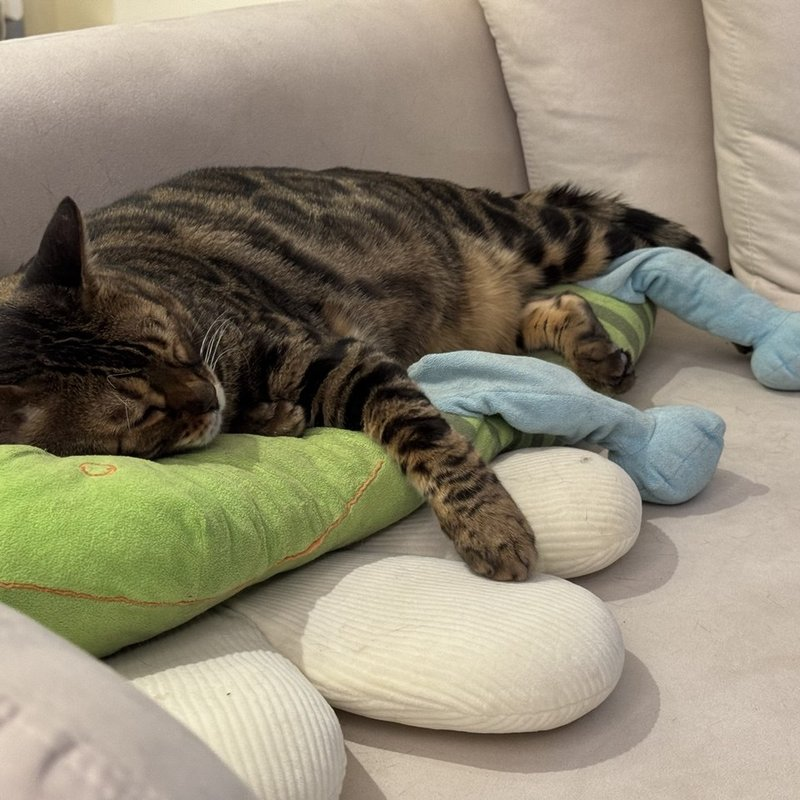
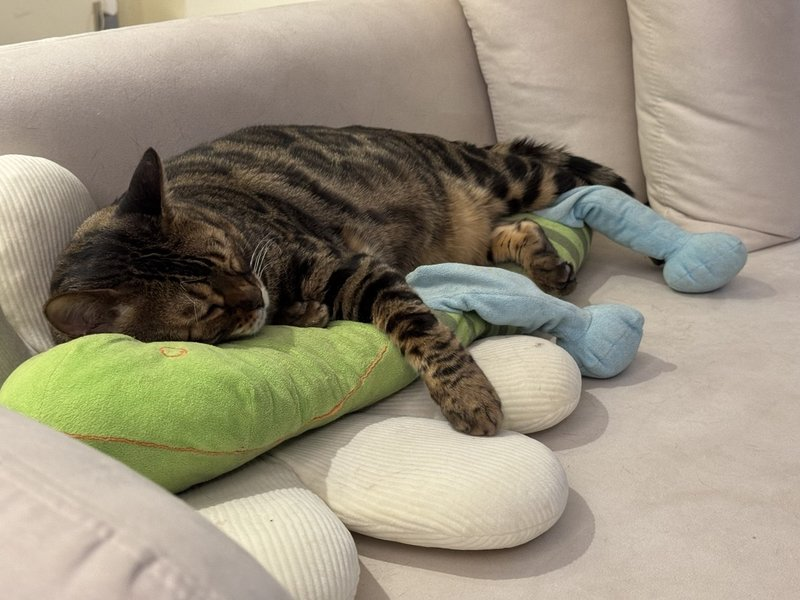
fix: keep original aspect ratio, use center top crop for all images

diff --git a/cat-showcase.html b/cat-showcase.html
@@ -137,7 +137,12 @@
         0 12px 40px rgba(255,255,255,0.09),
         inset 0 1px 0 rgba(255,255,255,0.28);
     }
-    .cat-thumb-img { width:120px;height:120px;border-radius:50%;object-fit:cover;border:1px solid rgba(255,255,255,.1); }
+    .cat-thumb-img {
+      width:120px;height:120px;border-radius:50%;
+      object-fit:cover;object-position:center top;
+      border:1px solid rgba(255,255,255,.1);display:block;
+      transition:opacity .25s ease;
+    }
     .cat-thumb-poem { font-size:12px;font-weight:300;color:var(--text-secondary);text-align:center;line-height:1.5;font-style:italic;white-space:nowrap;overflow:hidden;text-overflow:ellipsis;width:100%; }
     .cat-thumb-poem::before{content:'「'}.cat-thumb-poem::after{content:'」'}
 
